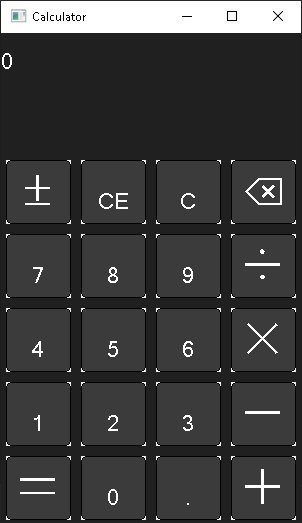
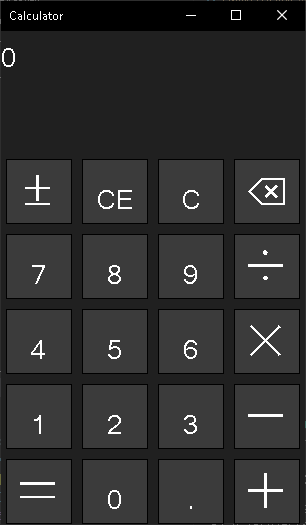
Update calculator appearence

diff --git a/src/Main.cpp b/src/Main.cpp
@@ -1,7 +1,40 @@
 #include "Calculator.hpp"
-#include <windows.h>
+#include <Windows.h>
+#include <strsafe.h>
+#include <dwmapi.h>
 
-const wchar_t g_szClassName[] =L"myWindowClass";
+void ErrorExit(LPCWSTR lpszFunction)
+{
+	// Retrieve the system error message for the last-error code
+
+	LPVOID lpMsgBuf;
+	LPVOID lpDisplayBuf;
+	DWORD dw = GetLastError();
+
+	FormatMessage(
+		FORMAT_MESSAGE_ALLOCATE_BUFFER |
+		FORMAT_MESSAGE_FROM_SYSTEM |
+		FORMAT_MESSAGE_IGNORE_INSERTS,
+		NULL,
+		dw,
+		MAKELANGID(LANG_NEUTRAL, SUBLANG_DEFAULT),
+		(LPTSTR)&lpMsgBuf,
+		0, NULL);
+
+	// Display the error message and exit the process
+
+	lpDisplayBuf = (LPVOID)LocalAlloc(LMEM_ZEROINIT,
+		(lstrlen((LPCTSTR)lpMsgBuf) + lstrlen((LPCTSTR)lpszFunction) + 40) * sizeof(TCHAR));
+	StringCchPrintf((LPTSTR)lpDisplayBuf,
+		LocalSize(lpDisplayBuf) / sizeof(TCHAR),
+		TEXT("%s failed with error %d: %s"),
+		lpszFunction, dw, lpMsgBuf);
+	MessageBox(NULL, (LPCTSTR)lpDisplayBuf, TEXT("Error"), MB_OK);
+
+	LocalFree(lpMsgBuf);
+	LocalFree(lpDisplayBuf);
+	ExitProcess(dw);
+}
 
 Calculator W32Calc;
 
@@ -30,6 +63,9 @@ LRESULT CALLBACK WndProc(HWND hwnd, UINT msg, WPARAM wParam, LPARAM lParam)
 			W32Calc.HandleKeyboardInput(wParam);
 			break;
 
+		case WM_CTLCOLORSTATIC:
+			return W32Calc.ChangeStaticColor(wParam);
+
         case WM_CLOSE:
             DestroyWindow(hwnd);
         	break;
@@ -43,59 +79,49 @@ LRESULT CALLBACK WndProc(HWND hwnd, UINT msg, WPARAM wParam, LPARAM lParam)
     return 0;
 }
 
-int main()
+int WINAPI WinMain(_In_ HINSTANCE hInstance, _In_opt_ HINSTANCE hPrevInstance, _In_ LPSTR lpCmdLine, _In_ int nCmdShow)
 {
-	HINSTANCE hInstance = GetModuleHandle(NULL);
+	WNDCLASSEX wcex;
 
-    WNDCLASSEX wc;
-    HWND hwnd;
-    MSG Msg;
+	wcex.cbSize = sizeof(WNDCLASSEX);
+	wcex.style = 0;
+	wcex.lpfnWndProc = WndProc;
+	wcex.cbClsExtra = 0;
+	wcex.cbWndExtra = 0;
+	wcex.hInstance = hInstance;
+	wcex.hIcon = LoadIcon(hInstance, IDI_APPLICATION);
+	wcex.hCursor = LoadCursor(NULL, IDC_ARROW);
+	wcex.hbrBackground = CreateSolidBrush(RGB(32, 32, 32));
+	wcex.lpszMenuName = NULL;
+	wcex.lpszClassName = L"Window";
+	wcex.hIconSm = LoadIcon(hInstance, IDI_APPLICATION);
 
-    //Step 1: Registering the Window Class
-    wc.cbSize        = sizeof(WNDCLASSEX);
-    wc.style         = 0;
-    wc.lpfnWndProc   = WndProc;
-    wc.cbClsExtra    = 0;
-    wc.cbWndExtra    = 0;
-    wc.hInstance     = hInstance;
-    wc.hIcon         = LoadIcon(NULL, IDI_APPLICATION);
-    wc.hCursor       = LoadCursor(NULL, IDC_ARROW);
-    wc.hbrBackground = (HBRUSH)(COLOR_WINDOW+1);
-    wc.lpszMenuName  = NULL;
-    wc.lpszClassName = g_szClassName;
-    wc.hIconSm       = LoadIcon(NULL, IDI_APPLICATION);
+	if (!RegisterClassEx(&wcex)) 	(L"RegisterClassEx");
 
-    if(!RegisterClassEx(&wc))
-    {
-        MessageBox(NULL,L"Window Registration Failed!",L"Error!",
-            MB_ICONEXCLAMATION | MB_OK);
-        return 0;
-    }
+	int width = 320, height = width * 1.6625f;
 
-    // Step 2: Creating the Window
-    hwnd = CreateWindowEx(
-        WS_EX_CLIENTEDGE,
-        g_szClassName,
-       L"The title of my window",
-        WS_OVERLAPPEDWINDOW,
-        CW_USEDEFAULT, CW_USEDEFAULT, 500, 1000,
-        NULL, NULL, hInstance, NULL);
+	// Step 2: Creating the Window
+	HWND hWnd = CreateWindowEx(
+		WS_EX_DLGMODALFRAME,
+		L"Window",
+		L"Calculator",
+		WS_OVERLAPPEDWINDOW,
+		CW_USEDEFAULT, CW_USEDEFAULT, width, height,
+		NULL, NULL, hInstance, NULL);
 
-    if(hwnd == NULL)
-    {
-        MessageBox(NULL,L"Window Creation Failed!",L"Error!",
-            MB_ICONEXCLAMATION | MB_OK);
-        return 0;
-    }
+	if (hWnd == nullptr) ErrorExit(L"CreateWindowEx");
 
-    ShowWindow(hwnd, SW_SHOW);
-    UpdateWindow(hwnd);
+	BOOL UseDarkMode = TRUE;
+	DwmSetWindowAttribute(hWnd, DWMWINDOWATTRIBUTE::DWMWA_USE_IMMERSIVE_DARK_MODE, &UseDarkMode, sizeof(UseDarkMode));
 
-    // Step 3: The Message Loop
-    while(GetMessage(&Msg, NULL, 0, 0) > 0)
-    {
-        TranslateMessage(&Msg);
-        DispatchMessage(&Msg);
-    }
-    return Msg.wParam;
+	ShowWindow(hWnd, nCmdShow);
+	UpdateWindow(hWnd);
+
+	MSG Msg{};
+	while (GetMessage(&Msg, NULL, 0, 0) > 0)
+	{
+		TranslateMessage(&Msg);
+		DispatchMessage(&Msg);
+	}
+	return Msg.wParam;
 }

diff --git a/src/Calculator.cpp b/src/Calculator.cpp
@@ -60,15 +60,12 @@ void Calculator::HandleCustomButton(LPARAM lParam)
         int buttonWidth = lpdis->rcItem.right - lpdis->rcItem.left;
         int buttonHeight = lpdis->rcItem.bottom - lpdis->rcItem.top;
 
-        // Define the roundness of the rectangle (change this value to adjust the roundness)
-        int cornerRadius = 10;
-
         // Draw the round rectangle button
         HPEN hPen = CreatePen(PS_SOLID, 1, RGB(0, 0, 0));
         HBRUSH hBrush = CreateSolidBrush(RGB(59, 59, 59));
         SelectObject(lpdis->hDC, hPen);
         SelectObject(lpdis->hDC, hBrush);
-        RoundRect(lpdis->hDC, lpdis->rcItem.left, lpdis->rcItem.top, lpdis->rcItem.right, lpdis->rcItem.bottom, cornerRadius, cornerRadius);
+        Rectangle(lpdis->hDC, lpdis->rcItem.left, lpdis->rcItem.top, lpdis->rcItem.right, lpdis->rcItem.bottom);
 
         // Set the background mode and background color for the text
         SetBkMode(lpdis->hDC, TRANSPARENT);
@@ -228,6 +225,14 @@ void Calculator::HandleKeyboardInput(WPARAM wParam)
 
         break;
     }
+}
+
+LRESULT Calculator::ChangeStaticColor(WPARAM wParam)
+{
+    HDC hdcStatic = (HDC)wParam;
+    SetBkColor(hdcStatic, RGB(32, 32, 32));
+    SetTextColor(hdcStatic, RGB(255, 255, 255)); 
+    return (LRESULT)GetStockObject(NULL_BRUSH);  // Return the handle to a null brush to prevent background erasure
 }
 
 void Calculator::UpdateInputbox(HWND hWnd)

diff --git a/src/Calculator.hpp b/src/Calculator.hpp
@@ -28,6 +28,7 @@ public:
     void ResizeCalculator(HWND hWnd);
     void HandleButtonInput(WPARAM wParam, HWND hWnd);
     void HandleKeyboardInput(WPARAM wParam);
+    LRESULT ChangeStaticColor(WPARAM wParam);
     void UpdateInputbox(HWND hWnd);
 
 private:
